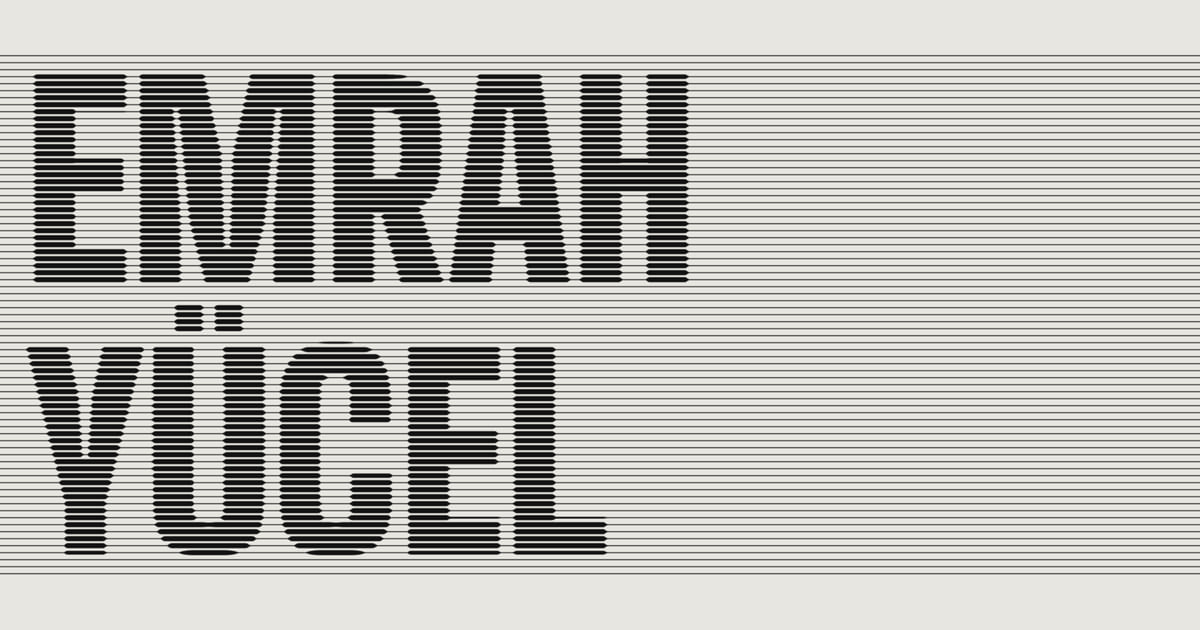
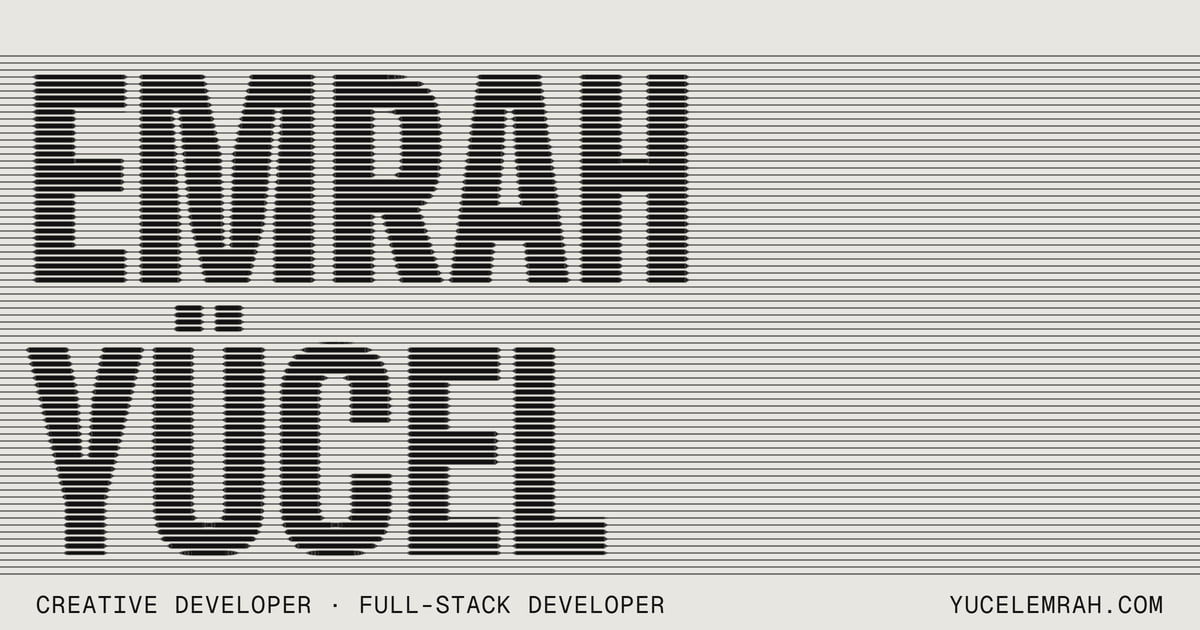
feat(seo): share plates that say who and where, per-page plates, a web manifest
- The share image's bottom strip now carries the two roles and the address, at a size a link
  preview still reads; the Lab and Contact have their own plate, the top strip naming the page
  (LAB, the email), with alt text built from the page title and the existing plate alt.
- A web app manifest with 192 / 512 / maskable icons (the mark on its 16px grid), linked from
  app.vue; .htaccess serves .webmanifest as application/manifest+json, cached a day.
- The x-default entry (/) carries the Person JSON-LD like every locale page.
- production-files: nitro also closes after `nuxt prepare`; with no .output yet (a fresh
  checkout) writing robots.txt failed the install. It now returns when there is no build.

tools/brand-assets.cjs gains --only=manifest and writes the three plates. AUDIT-01 B11.

Changed region(s): [[0.0, 0.0603, 1.0, 0.9952]]

diff --git a/app/composables/useLocaleSeo.ts b/app/composables/useLocaleSeo.ts
@@ -1,6 +1,6 @@
 import type { ResolvableLink } from '@unhead/vue'
 import { HTML_LANG, LOCALES, OG_LOCALE, profile } from '~~/shared/content'
-import { SOCIAL_IMAGE } from '~~/shared/site'
+import { socialImage } from '~~/shared/site'
 
 type Page = 'home' | 'about' | 'lab' | 'contact'
 
@@ -16,7 +16,10 @@ export function useLocaleSeo(page: Page, override?: { title?: string; descriptio
   // a study names itself; everything else takes the page's own metadata as written
   const meta = computed(() => ({ ...copy.value.meta[page], ...override }))
   const canonical = computed(() => `${site}/${locale.value}${pathWithoutLocale.value}`)
-  const image = `${site}${SOCIAL_IMAGE.path}`
+  const plate = socialImage(page)
+  const image = `${site}${plate.path}`
+  // the Lab's and Contact's plates carry the page's name in their top strip: the alt text says so first
+  const imageAlt = computed(() => (page === 'lab' || page === 'contact' ? `${copy.value.meta[page].title}. ${copy.value.meta.imageAlt}` : copy.value.meta.imageAlt))
 
   const links = computed<ResolvableLink[]>(() => [
     { rel: 'canonical', href: canonical.value },
@@ -46,15 +49,15 @@ export function useLocaleSeo(page: Page, override?: { title?: string; descriptio
     ogLocaleAlternate: () => LOCALES.filter((l) => l !== locale.value).map((l) => OG_LOCALE[l]),
     ogImage: image,
     ogImageSecureUrl: image,
-    ogImageType: SOCIAL_IMAGE.type,
-    ogImageWidth: SOCIAL_IMAGE.width,
-    ogImageHeight: SOCIAL_IMAGE.height,
-    ogImageAlt: () => copy.value.meta.imageAlt,
+    ogImageType: plate.type,
+    ogImageWidth: plate.width,
+    ogImageHeight: plate.height,
+    ogImageAlt: () => imageAlt.value,
     twitterCard: 'summary_large_image',
     twitterTitle: () => meta.value.title,
     twitterDescription: () => meta.value.description,
     twitterImage: image,
-    twitterImageAlt: () => copy.value.meta.imageAlt,
+    twitterImageAlt: () => imageAlt.value,
   })
 }
 

diff --git a/modules/production-files.ts b/modules/production-files.ts
@@ -176,7 +176,8 @@ ErrorDocument 404 /404.html
   AddType font/woff .woff
   AddType video/mp4 .mp4
   AddType image/x-icon .ico
-  AddCharset utf-8 .html .css .js .mjs .json .txt .xml .svg
+  AddType application/manifest+json .webmanifest
+  AddCharset utf-8 .html .css .js .mjs .json .txt .xml .svg .webmanifest
 </IfModule>
 
 # text only: images, fonts and video are already compressed
@@ -200,8 +201,8 @@ ErrorDocument 404 /404.html
   <FilesMatch "\\.(html|json)$">
     Header set Cache-Control "public, max-age=0, must-revalidate"
   </FilesMatch>
-  # crawl files, icons and the share image: a day
-  <FilesMatch "\\.(txt|xml|ico|svg|png|jpg)$">
+  # crawl files, icons, the manifest and the share images: a day
+  <FilesMatch "\\.(txt|xml|ico|svg|png|jpg|webmanifest)$">
     Header set Cache-Control "public, max-age=86400"
   </FilesMatch>
 </IfModule>
@@ -232,6 +233,9 @@ export default defineNuxtModule({
       nitro.hooks.hook('close', () => {
         const site = String(nuxt.options.runtimeConfig.public.siteUrl)
         const out = nitro.options.output.publicDir
+        // nitro also closes after `nuxt prepare` (the postinstall), when there is no build to write into: a fresh
+        // checkout has no .output yet, and writing robots.txt there failed the install
+        if (!existsSync(out)) return
         writeFileSync(join(out, 'robots.txt'), robots(site))
         writeFileSync(join(out, 'sitemap.xml'), sitemap(site))
         writeFileSync(join(out, '404.html'), notFound())

diff --git a/shared/site.ts b/shared/site.ts
@@ -38,8 +38,18 @@ export const isDocumentRoute = (path: string): boolean => /^\/(tr|en)\/(lab(\/|$
 /** every public, indexable route: the x-default entry and each page in each language */
 export const PUBLIC_ROUTES: string[] = ['/', ...LOCALES.flatMap((l) => PUBLIC_PAGES.map((p) => `/${l}${p}`))]
 
-/** the one social share image (a still of the C2 name plate; see docs/DEPLOYMENT.md) */
-export const SOCIAL_IMAGE = { path: '/og/emrah-yucel-portfolio.jpg', width: 1200, height: 630, type: 'image/jpeg' } as const
+/** the social share images: one still of the C2 name plate, its strips naming the page (tools/brand-assets.cjs; see
+ *  docs/DEPLOYMENT.md). The Lab (bench and studies) and Contact have their own; every other page shares the plate. */
+const PLATE = { width: 1200, height: 630, type: 'image/jpeg' } as const
+export const SOCIAL_IMAGE = { path: '/og/emrah-yucel-portfolio.jpg', ...PLATE } as const
+export const SOCIAL_IMAGES = {
+  lab: { path: '/og/emrah-yucel-portfolio-lab.jpg', ...PLATE },
+  contact: { path: '/og/emrah-yucel-portfolio-contact.jpg', ...PLATE },
+} as const
+export const socialImage = (page: string) => SOCIAL_IMAGES[page as keyof typeof SOCIAL_IMAGES] ?? SOCIAL_IMAGE
+
+/** the web app manifest (public/site.webmanifest), linked from app.vue */
+export const MANIFEST = '/site.webmanifest'
 
 /** icons wired in the document head */
 export const ICONS = {

diff --git a/app/pages/index.vue b/app/pages/index.vue
@@ -1,6 +1,7 @@
 <script setup lang="ts">
 import { HTML_LANG, LOCALES, OG_LOCALE, messages, profile } from '~~/shared/content'
 import { SOCIAL_IMAGE } from '~~/shared/site'
+import { personJsonLd } from '~/composables/useLocaleSeo'
 
 // x-default entry. It resolves a language; it is not a third version of the portfolio.
 definePageMeta({ layout: false })
@@ -16,6 +17,8 @@ useHead({
     { rel: 'alternate', hreflang: 'en', href: `${site}/en` },
     { rel: 'alternate', hreflang: 'x-default', href: `${site}/` },
   ],
+  // the same Person as every locale page: the x-default address is the one most often shared
+  script: [{ type: 'application/ld+json', key: 'person', innerHTML: JSON.stringify(personJsonLd(site)) }],
 })
 useSeoMeta({
   title: copy.entry.title,

diff --git a/app/app.vue b/app/app.vue
@@ -1,3 +1,10 @@
+<script setup lang="ts">
+import { MANIFEST } from '~~/shared/site'
+
+// the web app manifest, on every page (the icons in nuxt.config.ts are the document's; this is the install's)
+useHead({ link: [{ rel: 'manifest', href: MANIFEST }] })
+</script>
+
 <template>
   <NuxtLayout>
     <NuxtPage />

diff --git a/docs/DEPLOYMENT.md b/docs/DEPLOYMENT.md
@@ -36,7 +36,7 @@ still applied and nothing 404'd — so the site looked styled and deliberate and
 the same mismatch is one forgotten file away, because the policy travels in `.htaccess` and the hashes travel in
 the HTML.
 
-Brand assets (`public/favicon.*`, `public/apple-touch-icon.png`, `public/og/emrah-yucel-portfolio.jpg`) are committed. Regenerate them only on purpose, with `tools/brand-assets.cjs` (see its header).
+Brand assets (`public/favicon.*`, `public/apple-touch-icon.png`, the manifest icons `public/icon-*.png`, and the share images `public/og/emrah-yucel-portfolio.jpg`, `…-lab.jpg`, `…-contact.jpg`) are committed. Regenerate them only on purpose, with `tools/brand-assets.cjs` (see its header).
 
 ## What goes on the server
 **Upload:** the *contents* of `.output/public/`, including the hidden `.htaccess` files:
